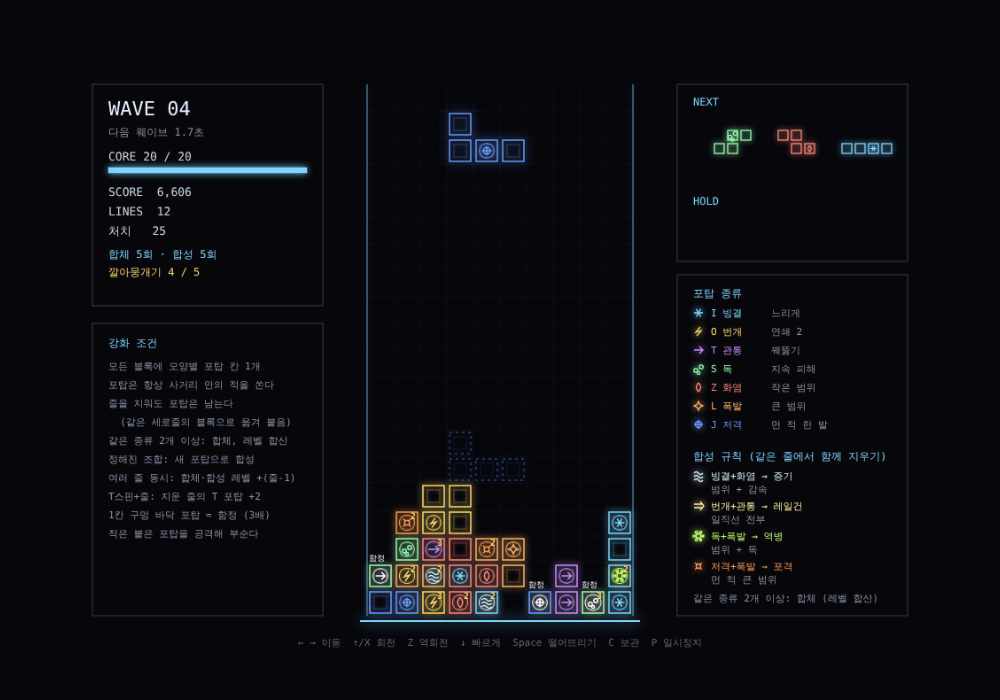
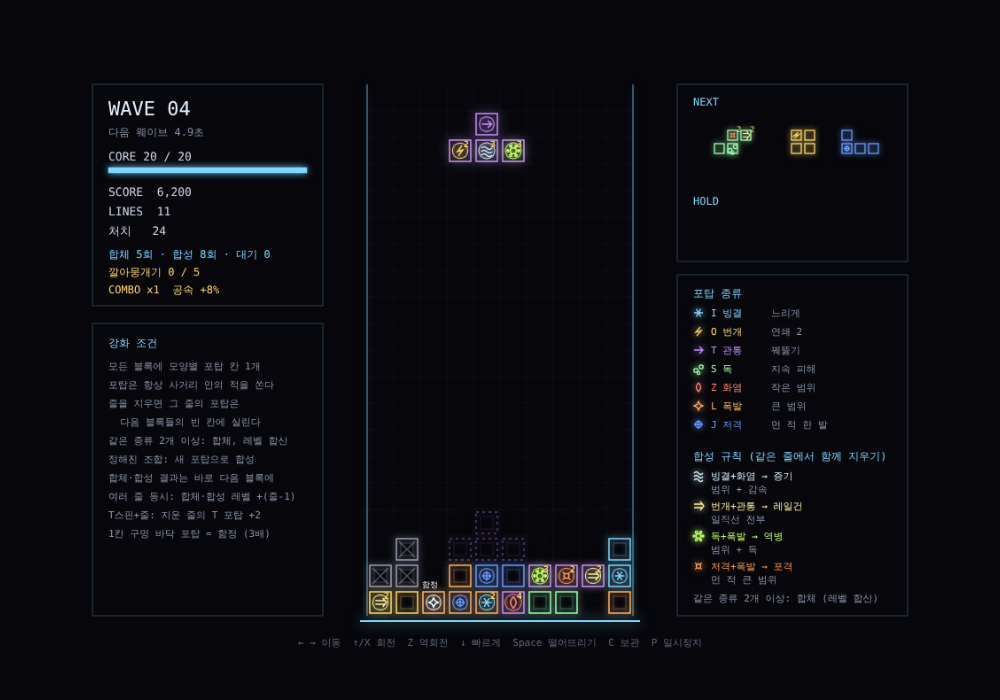
prototype: 지운 줄의 포탑을 다음 블록들에 싣기
- 합체·합성 결과는 바로 다음 블록, 규칙 없는 포탑은 그다음 블록들의 빈 칸에 실림
- 블록당 포탑 최대 4칸, 자리가 모자라면 대기, 무쇠 블록은 싣지 않음
- 다음 조각 미리보기에 실린 포탑과 레벨 표시
- 규칙 단위 시험 갱신, 문서와 의사결정 기록(D-038)

Claude-Session: https://claude.ai/code/session_016SHfTFKWnAwehWcokYQwXR

diff --git a/prototype/tetris-defense/index.html b/prototype/tetris-defense/index.html
@@ -81,7 +81,7 @@ function newGame() {
     enemies: [], warnings: [], fx: [], texts: [], beams: [],
     wave: 1, toSpawn: 0, spawnT: 0, breakT: 3, waveActive: false,
     core: 20, score: 0, lines: 0, kills: 0, combo: -1, gauge: 0, crushes: 0, ironNext: false,
-    merges: 0, fusions: 0, over: false, paused: false, started: S ? true : false, time: 0, bossAlive: false,
+    merges: 0, fusions: 0, carry: [], over: false, paused: false, started: S ? true : false, time: 0, bossAlive: false,
   };
   for (let i = 0; i < 3; i++) S.next.push(makePiece());
   spawnPiece();
@@ -95,9 +95,19 @@ function makePiece() {
   return { t, c: t, turrets: [{ kind: t, lvl: 1, idx: Math.random() * 4 | 0 }], iron: false };
 }
 const turretHp = l => 40 + 25 * l;
+// 줄 지우기로 넘어온 포탑을 다음 블록부터 차례로 빈 칸에 싣는다 (블록당 최대 4칸)
+function attachCarry() {
+  for (const q of S.next) {
+    if (!S.carry.length) return;
+    if (q.iron) continue;
+    const free = [0, 1, 2, 3].filter(i => !q.turrets.some(t => t.idx === i)).sort(() => Math.random() - .5);
+    while (free.length && S.carry.length) { const t = S.carry.shift(); q.turrets.push({ kind: t.kind, lvl: t.lvl, idx: free.shift(), carried: true }); }
+  }
+}
 function spawnPiece() {
-  const p = S.next.shift(); while (S.next.length < 3) S.next.push(makePiece()); // 포탑 조각을 끼워 넣어도 목록이 늘어나지 않게
-  if (S.ironNext) { p.iron = true; p.turrets = []; S.ironNext = false; }
+  const p = S.next.shift(); while (S.next.length < 3) S.next.push(makePiece());
+  if (S.ironNext) { p.iron = true; S.carry.unshift(...p.turrets.filter(t => t.carried)); p.turrets = []; S.ironNext = false; }
+  attachCarry();
 
   S.piece = { ...p, r: 0, x: 3, y: p.t === 'I' ? -1 : 0 };
   S.lockT = 0; S.lockMoves = 0; S.lastRotate = false; S.dropT = 0;
@@ -167,7 +177,6 @@ function lock() {
 function clearRows(rows, tspin) {
   const n = rows.length, found = [];
   rows.forEach(y => S.board[y].forEach((c, x) => { if (c.turret) found.push({ ...c.turret, x }); }));
-  const lowest = Math.max(...rows) - (n - 1); // 줄을 지운 뒤 지운 자리의 가장 아래 줄 (위 블록이 내려와 채움)
   for (const y of rows.slice().sort((a, b) => a - b)) {
     S.board.splice(y, 1); S.board.unshift(Array(COLS).fill(null));
     S.enemies.forEach(e => { if (ENEMY[e.type].solid || e.type === 'ghost') { if (e.gy === y) e.dead = true; } if (e.gy < y) { e.gy++; e.py++; } });
@@ -194,20 +203,14 @@ function clearRows(rows, tspin) {
     const ta = pool.find(t => t.kind === a), tb = pool.find(t => t.kind === b);
     if (ta && tb) { const lvl = Math.min(9, ta.lvl + tb.lvl + bonus); results.push({ kind: out, lvl, x: ta.x }); pool = pool.filter(t => t !== ta && t !== tb); S.fusions++; msgs.push(`${KIND_NAME[a]}+${KIND_NAME[b]} → ${KIND_NAME[out]} Lv${lvl}`); }
   }
-  // 3) 규칙이 없는 포탑은 그대로 남는다
+  // 3) 규칙이 없는 포탑은 그대로 다음 블록들에 실린다
   pool.forEach(t => results.push({ kind: t.kind, lvl: t.lvl, x: t.x, hp: t.hp }));
   if (tspin) results.forEach(r => { if (r.kind === 'T') { r.lvl = Math.min(9, r.lvl + 2); msgs.push(`T스핀 관통 Lv${r.lvl}`); } });
-  results.forEach(r => placeTurret(r, lowest));
+  // 합체·합성 결과가 앞(다음 블록), 규칙 없는 포탑은 그 뒤 블록들에 실린다
+  S.carry = results.map(r => ({ kind: r.kind, lvl: r.lvl })).concat(S.carry);
+  attachCarry();
+  if (S.carry.length) msgs.push(`대기 포탑 ${S.carry.length}`);
   if (msgs.length) { popText(msgs.join(' · '), 4.5, midY - 1.2, '#ffd96a'); S.fx.push({ kind: 'ring', x: 4.5, y: midY + .5, t: .5, col: '#ffd96a', big: true }); }
-}
-// 포탑을 같은 세로줄에 남긴다: 지운 자리로 내려온 블록 → 그 아래 블록 → 위쪽 블록 순서로 포탑 없는 칸에 옮겨 붙고,
-// 세로줄에 블록이 없으면 1칸 포탑 블록이 되어 바닥으로 떨어진다
-function placeTurret(r, fromY) {
-  const x = r.x, mk = () => ({ kind: r.kind, lvl: r.lvl, cd: .4, hp: r.hp ?? turretHp(r.lvl), maxhp: turretHp(r.lvl) });
-  const order = []; for (let y = fromY; y < ROWS; y++) order.push(y); for (let y = fromY - 1; y >= 0; y--) order.push(y);
-  for (const y of order) { const c = S.board[y][x]; if (c && !c.turret && !c.iron) { c.turret = mk(); S.fx.push({ kind: 'ring', x: x + .5, y: y + .5, t: .4, col: COLOR[r.kind] }); return; } }
-  let y = 0; while (y + 1 < ROWS && !S.board[y + 1][x]) y++;
-  if (!S.board[y][x]) { S.board[y][x] = { c: r.kind, iron: false, turret: mk() }; S.fx.push({ kind: 'ring', x: x + .5, y: y + .5, t: .4, col: COLOR[r.kind] }); }
 }
 function forTurrets(fn) { for (let y = 0; y < ROWS; y++) for (let x = 0; x < COLS; x++) { const c = S.board[y][x]; if (c && c.turret) fn(c, x, y); } }
 function recomputeGroups() {
@@ -445,7 +448,7 @@ function drawEnemy(e) {
 }
 function drawMini(p, x0, y0, s = 15) {
   if (!p) return; SHAPES[p.t][0].forEach(([x, y], i) => { const col = p.iron ? COLOR.X : COLOR[p.c || p.t]; g.lineWidth = 1.3; glow(col, 7); g.strokeRect(x0 + x * s + 2, y0 + y * s + 2, s - 4, s - 4);
-    const tq = p.turrets.find(q => q.idx === i); if (tq) { g.lineWidth = 1.2; glyph(tq.kind, x0 + x * s + s / 2, y0 + y * s + s / 2, 3.5); } });
+    const tq = p.turrets.find(q => q.idx === i); if (tq) { g.lineWidth = 1.2; glow(COLOR[tq.kind] || col, 7); glyph(tq.kind, x0 + x * s + s / 2, y0 + y * s + s / 2, 3.5); if (tq.lvl > 1) text(tq.lvl, x0 + x * s + s - 3, y0 + y * s + 4, '#ffd96a', 9); } });
 }
 function text(s, x, y, col = '#cfd8e6', size = 13, align = 'left') { g.shadowBlur = 0; g.fillStyle = col; g.font = `${size}px "DejaVu Sans Mono", "Noto Sans KR", monospace`; g.textAlign = align; g.fillText(s, x, y); g.textAlign = 'left'; }
 function panel(x, y, w, h) { g.shadowBlur = 0; g.strokeStyle = 'rgba(127,214,255,.3)'; g.lineWidth = 1; g.strokeRect(x, y, w, h); }
@@ -491,11 +494,11 @@ function draw() {
   text(S.waveActive ? `남은 적 ${S.toSpawn + S.enemies.length}` : `다음 웨이브 ${Math.max(0, S.breakT).toFixed(1)}초`, 58, 108, '#8a94a6', 12);
   text(`CORE ${Math.max(0, S.core)} / 20`, 58, 136); g.strokeStyle = 'rgba(127,214,255,.5)'; g.strokeRect(58, 144, 224, 6); glow('#7fd6ff', 8); g.fillRect(58, 144, 224 * Math.max(0, S.core) / 20, 6);
   text(`SCORE  ${S.score.toLocaleString()}`, 58, 176); text(`LINES  ${S.lines}`, 58, 198); text(`처치   ${S.kills}`, 58, 220);
-  text(`합체 ${S.merges}회 · 합성 ${S.fusions}회`, 58, 246, '#7fd6ff', 12); text(`깔아뭉개기 ${S.crushes} / 5`, 58, 266, '#ffd96a', 12);
+  text(`합체 ${S.merges}회 · 합성 ${S.fusions}회 · 대기 ${S.carry.length}`, 58, 246, '#7fd6ff', 12); text(`깔아뭉개기 ${S.crushes} / 5`, 58, 266, '#ffd96a', 12);
   text(S.combo > 0 ? `COMBO x${S.combo}  공속 +${Math.min(S.combo, 10) * 8}%` : '', 58, 286, '#ffd96a', 12);
   panel(40, 320, 260, 330);
   text('강화 조건', 58, 346, '#7fd6ff', 12);
-  ['모든 블록에 모양별 포탑 칸 1개', '포탑은 항상 사거리 안의 적을 쏜다', '줄을 지워도 포탑은 남는다', '  (같은 세로줄의 블록으로 옮겨 붙음)', '같은 종류 2개 이상: 합체, 레벨 합산', '정해진 조합: 새 포탑으로 합성', '여러 줄 동시: 합체·합성 레벨 +(줄-1)', 'T스핀+줄: 지운 줄의 T 포탑 +2', '1칸 구멍 바닥 포탑 = 함정 (3배)', '적은 붙은 포탑을 공격해 부순다']
+  ['모든 블록에 모양별 포탑 칸 1개', '포탑은 항상 사거리 안의 적을 쏜다', '줄을 지우면 그 줄의 포탑은', '  다음 블록들의 빈 칸에 실린다', '같은 종류 2개 이상: 합체, 레벨 합산', '정해진 조합: 새 포탑으로 합성', '합체·합성 결과는 바로 다음 블록에', '여러 줄 동시: 합체·합성 레벨 +(줄-1)', 'T스핀+줄: 지운 줄의 T 포탑 +2', '1칸 구멍 바닥 포탑 = 함정 (3배)']
     .forEach((s, i) => text(s, 58, 372 + i * 21, '#8a94a6', 11));
   // 오른쪽 패널
   panel(700, 50, 260, 200); text('NEXT', 718, 74, '#7fd6ff', 12); S.next.slice(0, 3).forEach((p, i) => drawMini(p, 740 + i * 72, 100));

diff --git a/prototype/tetris-defense/mergetest.js b/prototype/tetris-defense/mergetest.js
@@ -1,9 +1,9 @@
 // 실행: node prototype/tetris-defense/mergetest.js "$(pwd)/prototype/tetris-defense/index.html"
 // 줄 지우기 포탑 규칙 검증
-//  1) 같은 종류 2개 → 합체해 판에 남음 (레벨 합산)
-//  2) I + Z → 증기(V)로 합성
-//  3) 규칙 없는 I + O → 둘 다 판에 남음
-//  4) 세로줄에 블록이 없으면 1칸 포탑 블록으로 떨어짐
+//  1) 같은 종류 2개 → 합체해 바로 다음 블록에 실림 (레벨 합산)
+//  2) I + Z → 증기(V)로 합성해 다음 블록에 실림
+//  3) 규칙 없는 I + O → 둘 다 다음 블록들에 실림
+//  4) 지운 줄 밖의 포탑은 판에 그대로 남음
 const { chromium } = require('playwright');
 (async () => {
   const b = await chromium.launch(); const p = await b.newPage();
@@ -21,13 +21,14 @@ const { chromium } = require('playwright');
       A.hardDrop(); A.draw();
       const st = window.__td(), list = [];
       st.board.forEach((row, y) => row.forEach((c, x) => { if (c && c.turret) list.push(`${c.turret.kind}${c.turret.lvl}@${x},${y}`); }));
-      return { lines: st.lines, turrets: list.sort() };
+      const carried = [st.piece, ...st.next].map((q, i) => (i === 0 ? '현재:' : `다음${i}:`) + q.turrets.filter(t => t.carried).map(t => t.kind + t.lvl).join(','));
+      return { lines: st.lines, boardTurrets: list.sort(), carried };
     }
     return {
       same: run(s => { s.board[19][1].turret = T('I'); s.board[19][5].turret = T('I', 2); }),
       fusion: run(s => { s.board[19][2].turret = T('I'); s.board[19][6].turret = T('Z'); }),
       noRule: run(s => { s.board[19][2].turret = T('I'); s.board[19][6].turret = T('O'); }),
-      emptyColumn: run(s => { s.board[18][3] = null; s.board[19][3].turret = T('L'); }),
+      keepOthers: run(s => { s.board[18][3] = null; s.board[19][3].turret = T('L'); s.board[18][5].turret = T('S', 2); }),
     };
   });
   console.log(JSON.stringify(out, null, 1)); console.log('errors:', errors.length ? errors : 'none'); await b.close();

diff --git a/docs/08-shape-concepts.md b/docs/08-shape-concepts.md
@@ -345,7 +345,7 @@ The Tower는 가운데 타워가 자동으로 쏘고, 돈으로 강화하며 웨
 | 합체 단위 시험 | I 포탑 2개 + Z 1개 줄 지우기 → 다음 I 블록 Lv2 빙결, Z는 Lv1 대기, 윗줄 O 포탑 유지 |
 | 봇 시험 | 오류 없음, 5웨이브, 처치 123, 합체 24회, 핵 19/20. 방어가 크게 강해짐 |
 
-## 15. 줄을 지워도 포탑은 남는다 (플레이 피드백 3차)
+## 15. 줄을 지워도 포탑은 남는다 (플레이 피드백 3차, 16절로 대체됨)
 
 피드백: 한 줄을 지우면 왜 포탑이 없어지나. 규칙이 있을 때만 합성되어 다른 포탑으로 변하고, 규칙이 없으면 남겨 달라.
 
@@ -371,3 +371,23 @@ The Tower는 가운데 타워가 자동으로 쏘고, 돈으로 강화하며 웨
 | 봇 시험 | 오류 없음, 227줄, 처치 169, 합체 237회, 합성 110회, 핵 20/20. 판 위 포탑 최대 84개 |
 
 밸런스 주의: 모든 블록에 포탑이 있고 포탑이 사라지지 않아서 포탑 수가 계속 늘어난다. 방어가 지나치게 강해질 수 있다. 조정 후보: 포탑이 붙는 블록 비율 낮추기, 포탑 공격력 낮추기, 적 체력 올리기.
+
+## 16. 합쳐진 포탑은 다음 블록에 (플레이 피드백 4차)
+
+15절의 "판에 남기기" 대신, 지운 줄의 포탑은 모두 다음 블록들에 실린다.
+
+| 규칙 | 내용 |
+|---|---|
+| 합체·합성 결과 | 바로 다음 블록의 빈 칸에 실린다 |
+| 규칙 없는 포탑 | 레벨 그대로 그다음 블록들의 빈 칸에 차례로 실린다 |
+| 블록 용량 | 블록은 자기 모양 포탑 1칸 + 실린 포탑 최대 3칸 (4칸 모두 포탑 가능). 자리가 모자라면 대기했다가 새 블록에 실린다 |
+| 무쇠 블록 | 포탑을 싣지 않는다. 실려 있던 포탑은 대기로 돌아간다 |
+| 지우지 않은 줄 | 그 줄의 포탑은 판에 그대로 남는다 |
+| 미리보기 | 다음 조각 목록에 실린 포탑 기호와 레벨이 보인다 |
+
+합체(같은 종류 레벨 합산)와 합성 규칙 4종(증기, 레일건, 역병, 포격)은 15절과 같다.
+
+| 검증 (2026-11-07) | 결과 |
+|---|---|
+| 규칙 단위 시험 | 같은 종류 합체 → 다음 블록에 Lv4, 빙결+화염 → 다음 블록에 증기 Lv3, 규칙 없는 빙결과 번개 → 다음 블록 빈 칸에 각각 Lv1, 지우지 않은 줄의 독 Lv2는 판에 남음 |
+| 봇 시험 | 오류 없음, 124줄, 처치 115, 합체 166회, 합성 62회, 핵 20/20 |

diff --git a/prototype/tetris-defense/README.md b/prototype/tetris-defense/README.md
@@ -25,7 +25,7 @@
 - 적 8종: 낙하병, 낙하산, 폭탄, 굴착, 유령, 방패병, 거미, 보스. 등장 전 경고. 방패병과 거미는 화면당 합쳐서 2마리까지
 - 처치: 깔아뭉개기(방패병, 보스, 유령 제외), 포탑
 - 모양별 포탑: 모든 블록에 포탑 칸 1개 (위치는 무작위, 회전하면 함께 돈다. O 블록도 회전하면 포탑 칸이 시계 방향으로 옮겨 감). I 빙결, O 번개, T 관통, S 독, Z 화염, L 폭발, J 저격. 항상 사격
-- 줄을 지워도 포탑은 같은 세로줄에 남음 (블록에 옮겨 붙거나 1칸 포탑 블록으로 떨어짐)
+- 줄을 지우면 그 줄의 포탑은 다음 블록들에 실림: 합체·합성 결과는 바로 다음 블록, 규칙 없는 포탑은 그다음 블록들의 빈 칸 (블록당 최대 4칸)
 - 같은 종류 2개 이상 함께 지우면 합체 (레벨 합산, 여러 줄이면 보너스, 최대 9)
 - 합성: 빙결+화염 → 증기, 번개+관통 → 레일건, 독+폭발 → 역병, 저격+폭발 → 포격
 - T 스핀이면 지운 줄의 T 포탑 +2
@@ -43,8 +43,8 @@
 | 적 8종 동시 소환 | 142초, 5웨이브, 처치 61, 오류 없음 |
 | 포탑 재설계 후 봇 진행 (11-07) | 4~5웨이브, 합체 16~21회, 오류 없음 |
 | 모양별 포탑 봇 진행 (11-07) | 5웨이브, 처치 123, 합체 24회, 핵 19/20, 오류 없음 |
-| 포탑 남기기·합체·합성 단위 시험 (11-07) | 같은 종류 합체, 빙결+화염 → 증기, 규칙 없음 → 남음, 빈 세로줄 → 떨어짐 |
-| 포탑 남기기 버전 봇 진행 (11-07) | 227줄, 처치 169, 합체 237회, 합성 110회, 핵 20/20, 오류 없음 |
+| 합체·합성·싣기 단위 시험 (11-07) | 합체·합성 결과 → 다음 블록, 규칙 없음 → 다음 블록 빈 칸, 지우지 않은 줄 → 판에 남음 |
+| 다음 블록 싣기 버전 봇 진행 (11-07) | 124줄, 처치 115, 합체 166회, 합성 62회, 핵 20/20, 오류 없음 |
 
 시험 중 고친 버그:
 - 줄을 지울 때 합체 고리 효과의 반지름이 음수가 되어 화면 그리기 오류로 게임이 멈추던 문제 (11-07). 반지름을 보정하고, 한 프레임에서 오류가 나도 루프가 계속 돌게 했으며, 봇 시험이 화면 그리기까지 거치도록 바꿈

diff --git a/docs/05-decision-log.md b/docs/05-decision-log.md
@@ -41,3 +41,4 @@
 | D-035 | 2026-11-07 | 포탑 재설계: 포탑 조각, 줄 합체(레벨 합산), 표면만 사격, 구멍 함정, 포탑 체력과 적 공격, 적 수 증가 | 플레이 피드백: 포탑이 의미 없음, 적이 적음. 사용자 제안(줄 합체, 포탑 파괴) 반영 | 묻히면 충전, 지우면 발사 |
 | D-036 | 2026-11-07 | 모든 블록에 모양별 속성 포탑(I 빙결, O 번개, T 관통, S 독, Z 화염, L 폭발, J 저격). 포탑은 항상 사격. 합체는 같은 모양끼리 레벨 합산 후 그 모양의 다음 블록에 실림. 포탑 조각과 색 연결 속성 삭제 | 플레이 피드백: 포탑은 항상 쏴야 하고, 모양마다 다른 속성이 좋고, 따로 나오는 포탑 조각은 어색함 | 1칸 포탑 조각 |
 | D-037 | 2026-11-07 | 줄을 지워도 포탑은 같은 세로줄에 남는다. 같은 종류 2개 이상은 합체(레벨 합산), 정해진 조합 4종은 합성(증기, 레일건, 역병, 포격), 규칙이 없으면 그대로 남음. 다음 블록 대기 방식 삭제 | 플레이 피드백: 줄을 지우면 포탑이 사라지는 게 어색함 | 다음 같은 모양 블록에 싣기 |
+| D-038 | 2026-11-07 | D-037 수정: 지운 줄의 포탑은 판에 남기지 않고 다음 블록들에 싣는다. 합체·합성 결과는 바로 다음 블록, 규칙 없는 포탑은 그다음 블록들의 빈 칸 | 사용자 결정 | 판에 남기기 |
